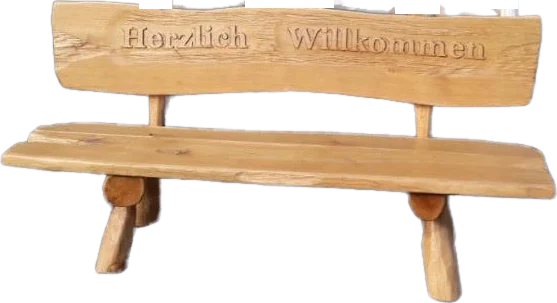
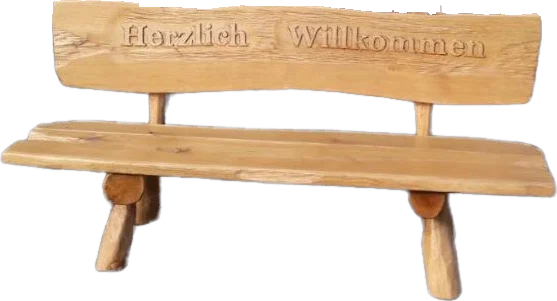
Garten-Traum & Kleber: Planer-Filterfehler behoben, Werkzeugleiste, Bank sauber freigestellt, Kontaktbereich ergänzt, Sockenspiel-Treffer verbessert
Claude-Session: https://claude.ai/code/session_01EMm62h9HVzjdUNKeAUenKu

diff --git a/entwurf/garten-traum/index.html b/entwurf/garten-traum/index.html
@@ -10,7 +10,7 @@
 <link rel="icon" href="img/favicon.png" type="image/png">
 <link rel="preload" href="fonts/gloock-latin-400-normal.woff2" as="font" type="font/woff2" crossorigin>
 <link rel="preload" href="fonts/familjen-grotesk-latin-400-normal.woff2" as="font" type="font/woff2" crossorigin>
-<link rel="stylesheet" href="assets/gt.css?v=1792109696">
+<link rel="stylesheet" href="assets/gt.css?v=1792111354">
 <script type="application/ld+json">{"@context": "https://schema.org", "@type": "FurnitureStore", "name": "Der Garten-Traum", "slogan": "Natürlich. Mit Herz.", "telephone": "+4917647161931", "email": "info@der-garten-traum.de", "foundingDate": "2011", "founder": {"@type": "Person", "name": "Janusz Wojtasczyk"}, "address": {"@type": "PostalAddress", "streetAddress": "Ortsstraße 69", "postalCode": "66459", "addressLocality": "Kirkel", "addressCountry": "DE"}, "openingHoursSpecification": [{"@type": "OpeningHoursSpecification", "dayOfWeek": ["Monday", "Tuesday", "Wednesday", "Thursday", "Friday", "Saturday"], "opens": "08:30", "closes": "18:30"}], "aggregateRating": {"@type": "AggregateRating", "ratingValue": "4.9", "reviewCount": "22"}}</script>
 </head>
 <body class="home is-loading">
@@ -175,8 +175,8 @@
           <button type="button" data-act="back" title="Nach hinten">⤓</button>
           <button type="button" data-act="front" title="Nach vorne">⤒</button>
           <button type="button" data-act="dup" title="Kopie">⧉</button>
-          <label title="Helligkeit">◐<input type="range" min="-40" max="40" value="0" data-bri></label>
-          <button type="button" data-act="del" title="Entfernen" class="del">✕</button>
+          <label title="Helligkeit">☀<input type="range" min="-40" max="40" value="0" data-bri></label>
+          <button type="button" data-act="del" title="Entfernen" class="rm">✕</button>
         </div>
         <p class="pl-hint" data-plhint><span data-pl="Dotknij mebla poniżej albo przeciągnij go na zdjęcie">Möbel unten antippen oder ins Bild ziehen</span></p>
       </div>
@@ -305,6 +305,8 @@
       <p class="kick"><span data-pl="Zapytanie">Anfrage</span></p>
       <h2 class="h2" id="k-h"><span data-pl="Czego potrzebuje">Was braucht</span> <em><span data-pl="Twój ogród?">Ihr Garten?</span></em></h2>
       <p class="lead" data-plh="Odezwiemy się z ceną i terminem dostawy. Albo po prostu zadzwoń: &lt;a href=&quot;tel:+4917647161931&quot;&gt;0176 47161931&lt;/a&gt; – mówimy też po polsku.">Wir melden uns mit Preis und Liefertermin. Oder rufen Sie einfach an: <a href="tel:+4917647161931">0176 47161931</a>.</p>
+      <div class="ko-quick"><a class="b b-ember sm" href="https://wa.me/4917647161931" target="_blank" rel="noopener">WhatsApp</a><a class="b b-ghost light sm" href="tel:+4917647161931"><span data-pl="Zadzwoń">Anrufen</span></a></div>
+      <figure class="ko-pol"><img src="img/f/ausstellung_oben.webp" alt="Die Ausstellung des Garten-Traums von oben" loading="lazy"><figcaption><span data-pl="Ortsstraße 69 – po prostu wpadnij">Ortsstraße 69 – einfach vorbeikommen</span></figcaption></figure>
       <figure class="ko-prev" data-koprev hidden><img alt="Ihr Garten-Entwurf" data-koimg><figcaption><span data-pl="Twój projekt ogrodu zostanie dołączony.">Ihr Garten-Entwurf wird mitgeschickt.</span> <button type="button" class="lk" data-kodrop><span data-pl="Usuń">Entfernen</span></button></figcaption></figure>
     </div>
     <form class="kf" data-kf action="https://formsubmit.co/info@falcon-eye.de" method="POST" enctype="multipart/form-data">
@@ -350,6 +352,6 @@
 <div class="dock" data-dock><a href="tel:+4917647161931"><span data-pl="Zadzwoń">Anrufen</span></a><a href="#planer" class="on"><span data-pl="Planer">Planer</span></a><a href="https://wa.me/4917647161931" target="_blank" rel="noopener">WhatsApp</a></div>
 <div class="lb" data-lb hidden><button type="button" class="lb-x" data-lbx aria-label="Schließen">✕</button><button type="button" class="lb-n p" data-lbn="-1" aria-label="Zurück">←</button><figure><img alt="" data-lbimg><figcaption data-lbcap></figcaption></figure><button type="button" class="lb-n n" data-lbn="1" aria-label="Weiter">→</button></div>
 <div class="toast" data-toast role="status" aria-live="polite"></div>
-<script>window.GT={"prod": {"set4": {"n": "Tisch mit Ablage", "pl": "Stół z półką", "cat": "holz", "w": 220, "sz": [720, 414]}, "set3": {"n": "Garnitur mit Sesseln", "pl": "Komplet z fotelami", "cat": "holz", "w": 250, "sz": [1051, 494]}, "set1": {"n": "Tisch & zwei Lehnbänke", "pl": "Stół i dwie ławki", "cat": "holz", "w": 230, "sz": [956, 568]}, "set2": {"n": "Rustikal, wie gewachsen", "pl": "Rustykalny, jak wyrósł", "cat": "holz", "w": 250, "sz": [1048, 582]}, "rund": {"n": "Runde Tafel für sechs", "pl": "Okrągły stół dla sześciu", "cat": "holz", "w": 200, "sz": [847, 648]}, "natur": {"n": "Baumstamm-Tafel", "pl": "Stół na pniach", "cat": "holz", "w": 230, "sz": [921, 644]}, "rosen": {"n": "Mit geschnitzten Rosen", "pl": "Z rzeźbionymi różami", "cat": "holz", "w": 240, "sz": [995, 577]}, "gesch1": {"n": "Dunkel geschnitzt", "pl": "Ciemny, rzeźbiony", "cat": "holz", "w": 240, "sz": [893, 543]}, "gesch3": {"n": "Geschnitzt, lange Tafel", "pl": "Rzeźbiony, długi stół", "cat": "holz", "w": 260, "sz": [1024, 599]}, "schaukel1": {"n": "Rundholz-Schaukel", "pl": "Huśtawka z okrąglaków", "cat": "schaukel", "w": 260, "sz": [881, 768]}, "schaukel2": {"n": "Schaukel mit Armlehnen", "pl": "Huśtawka z podłokietnikami", "cat": "schaukel", "w": 250, "sz": [838, 768]}, "dach": {"n": "Schaukel mit Schindeldach", "pl": "Huśtawka z daszkiem", "cat": "schaukel", "w": 240, "sz": [859, 735]}, "bank": {"n": "Bank „Herzlich Willkommen“", "pl": "Ławka „Serdecznie witamy”", "cat": "holz", "w": 180, "sz": [557, 303]}, "adler": {"n": "Adler", "pl": "Orzeł", "cat": "beton", "w": 80, "sz": [780, 749]}, "hund": {"n": "Terrier", "pl": "Terier", "cat": "beton", "w": 55, "sz": [503, 547]}, "milchmann": {"n": "Der Milchmann", "pl": "Mleczarz", "cat": "beton", "w": 45, "sz": [441, 768]}, "pagode": {"n": "Pagoden-Laterne", "pl": "Latarnia pagoda", "cat": "beton", "w": 55, "sz": [537, 851]}, "brunnen": {"n": "Baumstamm-Brunnen", "pl": "Fontanna jak pień", "cat": "beton", "w": 75, "sz": [609, 911]}}, "photos": [["panorama", "Die Ausstellung am Abend", "Ekspozycja wieczorem", 4.994], ["ausstellung_oben", "Von oben: die ganze Ausstellung", "Z góry: cała ekspozycja", 1.336], ["g_ecke_strasse", "Die Ecke an der Ortsstraße", "Narożnik przy Ortsstraße", 1.336], ["ausstellung_schaukeln", "Schaukeln vor dem Laden", "Huśtawki przed sklepem", 1.336], ["ausstellung_terrasse", "Unter dem Vordach", "Pod zadaszeniem", 1.336], ["ausstellung_figuren", "Figuren am Zaun", "Figury przy płocie", 1.336], ["g_figurenhof", "Der Figurenhof", "Podwórze figur", 1.336], ["g_figurenhof2", "Hunderte Figuren aus Beton", "Setki figur z betonu", 1.336], ["schaukel1", "Rundholz-Schaukel, frisch geliefert", "Huśtawka z okrąglaków, świeżo dostarczona", 1.333], ["schaukel2", "Mit Armlehnen", "Z podłokietnikami", 1.333], ["g_schaukel_dunkel", "Dunkle Schaukel mit Dach", "Ciemna huśtawka z daszkiem", 1.336], ["g_sitzgruppe_schaukel", "Sitzgruppe & Schaukel", "Komplet i huśtawka", 1.336], ["schaukel_garten", "Mit Schindeldach im Garten", "Z gontowym daszkiem w ogrodzie", 1.187], ["rund", "Runde Tafel, nach dem Regen", "Okrągły stół po deszczu", 1.333], ["natur", "Unbehandelt, auf Stämmen", "Nielakierowany, na pniach", 1.333], ["rosen", "Mit geschnitzten Rosen", "Z rzeźbionymi różami", 1.333], ["honig", "Honigfarben geölt", "Olejowany na miodowo", 1.333], ["gesch1", "Blätter in Lehne und Platte", "Liście w oparciu i blacie", 1.333], ["gesch2", "Dunkel geschnitzt", "Ciemny, rzeźbiony", 1.333], ["gesch3", "Jede Kante von Hand", "Każda krawędź ręcznie", 1.333], ["braun", "Geölt und gewachst", "Olejowany i woskowany", 1.333], ["moebel_set3", "Garnitur mit Lehnen", "Komplet z oparciami", 1.334], ["moebel_set4", "Für die ganze Familie", "Dla całej rodziny", 1.333], ["moebel_terrasse", "Auf der Terrasse", "Na tarasie", 1.333], ["wa_set4", "Gerade aufgestellt", "Właśnie wystawiony", 1.414], ["wa_set_schaukel", "Neu in der Ausstellung", "Nowość na ekspozycji", 1.414], ["eiche_garten", "Eiche im Garten", "Dąb w ogrodzie", 1.49], ["g_bank_willkommen", "„Herzlich Willkommen“", "„Serdecznie witamy”", 1.336], ["wurzeltisch", "Aus einer ganzen Wurzel", "Z całego korzenia", 0.749], ["spielhaus1", "Spielhaus auf Stelzen", "Domek na palach", 1.331], ["spielhaus2", "Mit Treppe & Fenster", "Ze schodami i okienkiem", 0.747], ["spielhaus3", "Großes Spielhaus mit Schaukel", "Duży domek z huśtawką", 1.328], ["adler", "Der große Adler", "Duży orzeł", 1.333], ["adler3", "Adler auf dem Fels", "Orzeł na skale", 1.333], ["beton_adler2", "Flügel weit offen", "Skrzydła szeroko otwarte", 0.749], ["loewe", "Der Löwe", "Lew", 1.226], ["hund", "Terrier & Vogeltränke", "Terier i poidełko", 1.333], ["milchmann", "Der Milchmann", "Mleczarz", 0.75], ["pagode", "Pagoden-Laterne", "Latarnia pagoda", 0.75], ["pagode_gruen", "Pagode im Grünen", "Pagoda w zieleni", 1.329], ["beton_pagode3", "Laterne mit Adler", "Latarnia z orłem", 0.749], ["brunnen", "Brunnen wie ein Baumstamm", "Fontanna jak pień", 0.75], ["brunnen3", "Drei-Schalen-Brunnen", "Fontanna z trzema misami", 0.744], ["brunnenfrau", "Die Brunnenfrau", "Kobieta przy studni", 1.327], ["gastro_saal", "Eine ganze Gaststube", "Cała sala", 1.332], ["gastro_bar", "Theke & Barhocker", "Bar i hokery", 1.333], ["gastro_kamin", "Vor dem Kamin", "Przy kominku", 1.55], ["gastro_raum1", "Tische für die Wirtschaft", "Stoły do gospody", 1.333], ["gastro_raum2", "Gemütlich eingerichtet", "Przytulnie urządzone", 1.333], ["vogelbach", "Kirchengemeinde Vogelbach", "Parafia Vogelbach", 2.411]], "turn": ["set4", "set3", "rund", "natur", "rosen", "gesch1"], "orte": [["Kirkel", 49.289, 7.234], ["Homburg", 49.326, 7.338], ["Bexbach", 49.346, 7.258], ["St. Ingbert", 49.277, 7.116], ["Blieskastel", 49.237, 7.255], ["Zweibrücken", 49.249, 7.36], ["Neunkirchen", 49.346, 7.18], ["Spiesen-Elversberg", 49.317, 7.124], ["Waldmohr", 49.384, 7.338], ["Ottweiler", 49.401, 7.164], ["Sulzbach", 49.298, 7.066], ["Saarbrücken", 49.234, 6.996], ["Mandelbachtal", 49.18, 7.17], ["Landstuhl", 49.413, 7.571], ["St. Wendel", 49.467, 7.168], ["Kaiserslautern", 49.444, 7.769]], "shop": [49.3244, 7.2873], "wa": "https://wa.me/4917647161931", "mob": "0176 47161931"};</script>
-<script src="assets/gt.js?v=1792109696" defer></script><script src="assets/planer.js?v=1792109696" defer></script>
+<script>window.GT={"prod": {"set4": {"n": "Tisch mit Ablage", "pl": "Stół z półką", "cat": "holz", "w": 220, "sz": [720, 414]}, "set3": {"n": "Garnitur mit Sesseln", "pl": "Komplet z fotelami", "cat": "holz", "w": 250, "sz": [1051, 494]}, "set1": {"n": "Tisch & zwei Lehnbänke", "pl": "Stół i dwie ławki", "cat": "holz", "w": 230, "sz": [956, 568]}, "set2": {"n": "Rustikal, wie gewachsen", "pl": "Rustykalny, jak wyrósł", "cat": "holz", "w": 250, "sz": [1048, 582]}, "rund": {"n": "Runde Tafel für sechs", "pl": "Okrągły stół dla sześciu", "cat": "holz", "w": 200, "sz": [847, 648]}, "natur": {"n": "Baumstamm-Tafel", "pl": "Stół na pniach", "cat": "holz", "w": 230, "sz": [921, 644]}, "rosen": {"n": "Mit geschnitzten Rosen", "pl": "Z rzeźbionymi różami", "cat": "holz", "w": 240, "sz": [995, 577]}, "gesch1": {"n": "Dunkel geschnitzt", "pl": "Ciemny, rzeźbiony", "cat": "holz", "w": 240, "sz": [893, 543]}, "gesch3": {"n": "Geschnitzt, lange Tafel", "pl": "Rzeźbiony, długi stół", "cat": "holz", "w": 260, "sz": [1024, 599]}, "schaukel1": {"n": "Rundholz-Schaukel", "pl": "Huśtawka z okrąglaków", "cat": "schaukel", "w": 260, "sz": [881, 768]}, "schaukel2": {"n": "Schaukel mit Armlehnen", "pl": "Huśtawka z podłokietnikami", "cat": "schaukel", "w": 250, "sz": [838, 768]}, "dach": {"n": "Schaukel mit Schindeldach", "pl": "Huśtawka z daszkiem", "cat": "schaukel", "w": 240, "sz": [859, 735]}, "bank": {"n": "Bank „Herzlich Willkommen“", "pl": "Ławka „Serdecznie witamy”", "cat": "holz", "w": 180, "sz": [557, 301]}, "adler": {"n": "Adler", "pl": "Orzeł", "cat": "beton", "w": 80, "sz": [780, 749]}, "hund": {"n": "Terrier", "pl": "Terier", "cat": "beton", "w": 55, "sz": [503, 547]}, "milchmann": {"n": "Der Milchmann", "pl": "Mleczarz", "cat": "beton", "w": 45, "sz": [441, 768]}, "pagode": {"n": "Pagoden-Laterne", "pl": "Latarnia pagoda", "cat": "beton", "w": 55, "sz": [537, 851]}, "brunnen": {"n": "Baumstamm-Brunnen", "pl": "Fontanna jak pień", "cat": "beton", "w": 75, "sz": [609, 911]}}, "photos": [["panorama", "Die Ausstellung am Abend", "Ekspozycja wieczorem", 4.994], ["ausstellung_oben", "Von oben: die ganze Ausstellung", "Z góry: cała ekspozycja", 1.336], ["g_ecke_strasse", "Die Ecke an der Ortsstraße", "Narożnik przy Ortsstraße", 1.336], ["ausstellung_schaukeln", "Schaukeln vor dem Laden", "Huśtawki przed sklepem", 1.336], ["ausstellung_terrasse", "Unter dem Vordach", "Pod zadaszeniem", 1.336], ["ausstellung_figuren", "Figuren am Zaun", "Figury przy płocie", 1.336], ["g_figurenhof", "Der Figurenhof", "Podwórze figur", 1.336], ["g_figurenhof2", "Hunderte Figuren aus Beton", "Setki figur z betonu", 1.336], ["schaukel1", "Rundholz-Schaukel, frisch geliefert", "Huśtawka z okrąglaków, świeżo dostarczona", 1.333], ["schaukel2", "Mit Armlehnen", "Z podłokietnikami", 1.333], ["g_schaukel_dunkel", "Dunkle Schaukel mit Dach", "Ciemna huśtawka z daszkiem", 1.336], ["g_sitzgruppe_schaukel", "Sitzgruppe & Schaukel", "Komplet i huśtawka", 1.336], ["schaukel_garten", "Mit Schindeldach im Garten", "Z gontowym daszkiem w ogrodzie", 1.187], ["rund", "Runde Tafel, nach dem Regen", "Okrągły stół po deszczu", 1.333], ["natur", "Unbehandelt, auf Stämmen", "Nielakierowany, na pniach", 1.333], ["rosen", "Mit geschnitzten Rosen", "Z rzeźbionymi różami", 1.333], ["honig", "Honigfarben geölt", "Olejowany na miodowo", 1.333], ["gesch1", "Blätter in Lehne und Platte", "Liście w oparciu i blacie", 1.333], ["gesch2", "Dunkel geschnitzt", "Ciemny, rzeźbiony", 1.333], ["gesch3", "Jede Kante von Hand", "Każda krawędź ręcznie", 1.333], ["braun", "Geölt und gewachst", "Olejowany i woskowany", 1.333], ["moebel_set3", "Garnitur mit Lehnen", "Komplet z oparciami", 1.334], ["moebel_set4", "Für die ganze Familie", "Dla całej rodziny", 1.333], ["moebel_terrasse", "Auf der Terrasse", "Na tarasie", 1.333], ["wa_set4", "Gerade aufgestellt", "Właśnie wystawiony", 1.414], ["wa_set_schaukel", "Neu in der Ausstellung", "Nowość na ekspozycji", 1.414], ["eiche_garten", "Eiche im Garten", "Dąb w ogrodzie", 1.49], ["g_bank_willkommen", "„Herzlich Willkommen“", "„Serdecznie witamy”", 1.336], ["wurzeltisch", "Aus einer ganzen Wurzel", "Z całego korzenia", 0.749], ["spielhaus1", "Spielhaus auf Stelzen", "Domek na palach", 1.331], ["spielhaus2", "Mit Treppe & Fenster", "Ze schodami i okienkiem", 0.747], ["spielhaus3", "Großes Spielhaus mit Schaukel", "Duży domek z huśtawką", 1.328], ["adler", "Der große Adler", "Duży orzeł", 1.333], ["adler3", "Adler auf dem Fels", "Orzeł na skale", 1.333], ["beton_adler2", "Flügel weit offen", "Skrzydła szeroko otwarte", 0.749], ["loewe", "Der Löwe", "Lew", 1.226], ["hund", "Terrier & Vogeltränke", "Terier i poidełko", 1.333], ["milchmann", "Der Milchmann", "Mleczarz", 0.75], ["pagode", "Pagoden-Laterne", "Latarnia pagoda", 0.75], ["pagode_gruen", "Pagode im Grünen", "Pagoda w zieleni", 1.329], ["beton_pagode3", "Laterne mit Adler", "Latarnia z orłem", 0.749], ["brunnen", "Brunnen wie ein Baumstamm", "Fontanna jak pień", 0.75], ["brunnen3", "Drei-Schalen-Brunnen", "Fontanna z trzema misami", 0.744], ["brunnenfrau", "Die Brunnenfrau", "Kobieta przy studni", 1.327], ["gastro_saal", "Eine ganze Gaststube", "Cała sala", 1.332], ["gastro_bar", "Theke & Barhocker", "Bar i hokery", 1.333], ["gastro_kamin", "Vor dem Kamin", "Przy kominku", 1.55], ["gastro_raum1", "Tische für die Wirtschaft", "Stoły do gospody", 1.333], ["gastro_raum2", "Gemütlich eingerichtet", "Przytulnie urządzone", 1.333], ["vogelbach", "Kirchengemeinde Vogelbach", "Parafia Vogelbach", 2.411]], "turn": ["set4", "set3", "rund", "natur", "rosen", "gesch1"], "orte": [["Kirkel", 49.289, 7.234], ["Homburg", 49.326, 7.338], ["Bexbach", 49.346, 7.258], ["St. Ingbert", 49.277, 7.116], ["Blieskastel", 49.237, 7.255], ["Zweibrücken", 49.249, 7.36], ["Neunkirchen", 49.346, 7.18], ["Spiesen-Elversberg", 49.317, 7.124], ["Waldmohr", 49.384, 7.338], ["Ottweiler", 49.401, 7.164], ["Sulzbach", 49.298, 7.066], ["Saarbrücken", 49.234, 6.996], ["Mandelbachtal", 49.18, 7.17], ["Landstuhl", 49.413, 7.571], ["St. Wendel", 49.467, 7.168], ["Kaiserslautern", 49.444, 7.769]], "shop": [49.3244, 7.2873], "wa": "https://wa.me/4917647161931", "mob": "0176 47161931"};</script>
+<script src="assets/gt.js?v=1792111354" defer></script><script src="assets/planer.js?v=1792111354" defer></script>
 </body></html>

diff --git a/entwurf/waescherei-kleber/index.html b/entwurf/waescherei-kleber/index.html
@@ -9,7 +9,7 @@
 <meta name="theme-color" content="#1546a8">
 <link rel="icon" href="img/favicon.svg" type="image/svg+xml">
 <link rel="preload" href="fonts/archivo-latin-wdth-normal.woff2" as="font" type="font/woff2" crossorigin>
-<link rel="stylesheet" href="assets/kl.css?v=1792110955">
+<link rel="stylesheet" href="assets/kl.css?v=1792111494">
 <script type="application/ld+json">{"@context": "https://schema.org", "@type": "DryCleaningOrLaundry", "name": "Wäscherei Kleber", "foundingDate": "1971", "telephone": "+4968156800", "faxNumber": "+4968156842", "email": "info@waescherei-kleber.de", "address": {"@type": "PostalAddress", "streetAddress": "Gersweilerstraße 20", "postalCode": "66117", "addressLocality": "Saarbrücken", "addressCountry": "DE"}, "geo": {"@type": "GeoCoordinates", "latitude": 49.2324, "longitude": 6.9739}, "openingHoursSpecification": [{"@type": "OpeningHoursSpecification", "dayOfWeek": ["Monday", "Thursday"], "opens": "10:00", "closes": "17:00"}, {"@type": "OpeningHoursSpecification", "dayOfWeek": ["Tuesday", "Friday"], "opens": "09:00", "closes": "17:00"}, {"@type": "OpeningHoursSpecification", "dayOfWeek": ["Wednesday", "Saturday"], "opens": "09:00", "closes": "13:00"}], "aggregateRating": {"@type": "AggregateRating", "ratingValue": "4.2", "reviewCount": "31"}}</script>
 </head>
 <body class="home is-loading">
@@ -289,5 +289,5 @@
 <div class="toast" data-toast role="status" aria-live="polite"></div>
 <script>window.KL={"hours": [["10:00", "17:00"], ["9:00", "17:00"], ["9:00", "13:00"], ["10:00", "17:00"], ["9:00", "17:00"], ["9:00", "13:00"], null]};</script>
 <script src="assets/matter.min.js" defer></script>
-<script src="assets/kl.js?v=1792110955" defer></script>
+<script src="assets/kl.js?v=1792111494" defer></script>
 </body></html>

diff --git a/entwurf/garten-traum/assets/gt.css b/entwurf/garten-traum/assets/gt.css
@@ -273,7 +273,7 @@ input,textarea{font:inherit}
 .pl-tool[hidden]{display:none}
 .pl-tool button,.pl-tool label{width:38px;height:38px;border:0;border-radius:50%;background:none;color:#fff;display:grid;place-items:center;font-size:16px;cursor:pointer;position:relative}
 .pl-tool button:hover,.pl-tool label:hover{background:rgba(255,255,255,.12)}
-.pl-tool .del{color:#ff9b7a}
+.pl-tool .rm{color:#ff9b7a}
 .pl-tool label input{position:absolute;left:50%;top:-44px;transform:translateX(-50%);width:140px;display:none;accent-color:var(--ember)}
 .pl-tool label:hover input,.pl-tool label:focus-within input,.pl-tool label.open input{display:block}
 .pl-hint{position:absolute;left:50%;bottom:16px;transform:translateX(-50%);margin:0;background:rgba(22,16,11,.78);color:#fff;font:500 13px var(--fm);padding:10px 16px;border-radius:999px;white-space:nowrap;pointer-events:none;transition:opacity .4s}
@@ -440,6 +440,11 @@ input,textarea{font:inherit}
 .ko-in{display:grid;grid-template-columns:minmax(0,.85fr) minmax(0,1.15fr);gap:clamp(20px,4vw,60px)}
 .ko-t .kick,.ko-t .lead{color:#d8c6ad}
 .ko-t .lead a{color:var(--honey)}
+.ko-quick{display:flex;flex-wrap:wrap;gap:10px;margin-top:20px}
+.ko-pol{margin:28px 0 0;max-width:380px;background:#f7f1e6;padding:9px 9px 34px;transform:rotate(-2.5deg);box-shadow:0 24px 40px -18px #000;position:relative}
+.ko-pol img{aspect-ratio:4/3;object-fit:cover;width:100%}
+.ko-pol figcaption{position:absolute;left:12px;bottom:9px;font:500 12px var(--fm);color:#5a4636}
+.ko-prev:not([hidden])~.ko-pol{display:none}
 .ko-prev{margin:22px 0 0;background:#2a1d13;border-radius:14px;padding:10px;max-width:440px}
 .ko-prev[hidden]{display:none}
 .ko-prev img{border-radius:8px;width:100%}

diff --git a/entwurf/waescherei-kleber/assets/kl.js b/entwurf/waescherei-kleber/assets/kl.js
@@ -214,7 +214,7 @@
     let grab = null;
     const pt = e => { const r = cv.getBoundingClientRect(); return { x: (e.clientX - r.left) * W / r.width, y: (e.clientY - r.top) * W / r.height }; };
     cv.addEventListener('pointerdown', e => {
-      const p = pt(e), hit = Query.point(items, p)[0]; if (!hit) return;
+      const p = pt(e), hits = Query.point(items, p); let hit = hits[hits.length - 1]; if (!hit && opts.onPick) { let best = null, bd = 1e9; for (const b of items) { const d = Math.hypot(b.position.x - p.x, b.position.y - p.y); if (d < bd) { bd = d; best = b; } } if (bd < R * .14) hit = best; } if (!hit) return;
       if (opts.onPick) { opts.onPick(hit); return; }
       if (e.pointerType !== 'mouse') { Body.setVelocity(hit, { x: (Math.random() - .5) * 10, y: -10 }); return; }
       grab = Constraint.create({ pointA: p, bodyB: hit, pointB: { x: p.x - hit.position.x, y: p.y - hit.position.y }, stiffness: .2, damping: .1, length: 0 });
@@ -291,7 +291,7 @@
     const best = +store.get('kl-socks') || 0; if (best) bEl.textContent = fmt(best);
     let D;
     D = makeDrum(cv, { omega: .006, water: 0, baffles: 3, onPick: b => pick(b) });
-    if (!D) return;
+    if (!D) return; window.__klSocks = D;
     function fill() {
       D.items.slice().forEach(b => D.removeItem(b)); line.innerHTML = ''; sel.clear(); pairs = 0; pEl.textContent = '0 / 8';
       const list = []; SOCKS.forEach((s, i) => { list.push(i, i); }); list.sort(() => Math.random() - .5);

diff --git a/entwurf/garten-traum/datenschutz.html b/entwurf/garten-traum/datenschutz.html
@@ -10,7 +10,7 @@
 <link rel="icon" href="img/favicon.png" type="image/png">
 <link rel="preload" href="fonts/gloock-latin-400-normal.woff2" as="font" type="font/woff2" crossorigin>
 <link rel="preload" href="fonts/familjen-grotesk-latin-400-normal.woff2" as="font" type="font/woff2" crossorigin>
-<link rel="stylesheet" href="assets/gt.css?v=1792109696">
+<link rel="stylesheet" href="assets/gt.css?v=1792111354">
 
 </head>
 <body class="sub">
@@ -61,4 +61,4 @@
   <div class="wrap ftr-b"><span>© Der Garten-Traum · <span data-pl="Właściciel">Inhaber</span> Janusz Wojtasczyk</span><span><a href="impressum.html">Impressum</a> · <a href="datenschutz.html"><span data-pl="Ochrona danych">Datenschutz</span></a></span></div>
 </footer>
 <a class="concept" href="https://falcon-eye.de" target="_blank" rel="noopener">Entwurf von <b>Falcon Eye</b> · nicht die offizielle Seite</a>
-<script src="assets/gt.js?v=1792109696" defer></script></body></html>
+<script src="assets/gt.js?v=1792111354" defer></script></body></html>

diff --git a/entwurf/garten-traum/impressum.html b/entwurf/garten-traum/impressum.html
@@ -10,7 +10,7 @@
 <link rel="icon" href="img/favicon.png" type="image/png">
 <link rel="preload" href="fonts/gloock-latin-400-normal.woff2" as="font" type="font/woff2" crossorigin>
 <link rel="preload" href="fonts/familjen-grotesk-latin-400-normal.woff2" as="font" type="font/woff2" crossorigin>
-<link rel="stylesheet" href="assets/gt.css?v=1792109696">
+<link rel="stylesheet" href="assets/gt.css?v=1792111354">
 
 </head>
 <body class="sub">
@@ -60,4 +60,4 @@
   <div class="wrap ftr-b"><span>© Der Garten-Traum · <span data-pl="Właściciel">Inhaber</span> Janusz Wojtasczyk</span><span><a href="impressum.html">Impressum</a> · <a href="datenschutz.html"><span data-pl="Ochrona danych">Datenschutz</span></a></span></div>
 </footer>
 <a class="concept" href="https://falcon-eye.de" target="_blank" rel="noopener">Entwurf von <b>Falcon Eye</b> · nicht die offizielle Seite</a>
-<script src="assets/gt.js?v=1792109696" defer></script></body></html>
+<script src="assets/gt.js?v=1792111354" defer></script></body></html>

diff --git a/entwurf/garten-traum/assets/planer.js b/entwurf/garten-traum/assets/planer.js
@@ -283,7 +283,7 @@
   hzEl.addEventListener('pointerup', () => { hzDrag = null; hzEl.classList.remove('on'); persist(); });
 
   /* ---------- Ablage: antippen oder ins Bild ziehen ---------- */
-  $$('[data-cat]').forEach(b => b.addEventListener('click', () => { $$('[data-cat]').forEach(x => x.classList.toggle('on', x === b)); const c = b.dataset.cat; $$('[data-add]').forEach(t => t.hidden = !(c === 'all' || t.dataset.cat === c)); }));
+  $$('.pl-cats [data-cat]').forEach(b => b.addEventListener('click', () => { $$('.pl-cats [data-cat]').forEach(x => x.classList.toggle('on', x === b)); const c = b.dataset.cat; $$('[data-add]').forEach(t => t.hidden = !(c === 'all' || t.dataset.cat === c)); }));
   $$('[data-add]').forEach(t => {
     let st = null, ghost = null;
     t.addEventListener('pointerdown', e => { st = { x: e.clientX, y: e.clientY, id: e.pointerId, drag: false }; });

diff --git a/entwurf/waescherei-kleber/datenschutz.html b/entwurf/waescherei-kleber/datenschutz.html
@@ -9,7 +9,7 @@
 <meta name="theme-color" content="#1546a8">
 <link rel="icon" href="img/favicon.svg" type="image/svg+xml">
 <link rel="preload" href="fonts/archivo-latin-wdth-normal.woff2" as="font" type="font/woff2" crossorigin>
-<link rel="stylesheet" href="assets/kl.css?v=1792110955">
+<link rel="stylesheet" href="assets/kl.css?v=1792111494">
 
 </head>
 <body class="sub">
@@ -30,4 +30,4 @@
   <div class="wrap ftr-b"><span>© Wäscherei Kleber · Inhaber Peter Kleber</span><span><a href="impressum.html">Impressum</a> · <a href="datenschutz.html">Datenschutz</a></span></div>
 </footer>
 <a class="concept" href="https://falcon-eye.de" target="_blank" rel="noopener">Entwurf von <b>Falcon Eye</b> · nicht die offizielle Seite</a>
-<script src="assets/kl.js?v=1792110955" defer></script></body></html>
+<script src="assets/kl.js?v=1792111494" defer></script></body></html>

diff --git a/entwurf/waescherei-kleber/impressum.html b/entwurf/waescherei-kleber/impressum.html
@@ -9,7 +9,7 @@
 <meta name="theme-color" content="#1546a8">
 <link rel="icon" href="img/favicon.svg" type="image/svg+xml">
 <link rel="preload" href="fonts/archivo-latin-wdth-normal.woff2" as="font" type="font/woff2" crossorigin>
-<link rel="stylesheet" href="assets/kl.css?v=1792110955">
+<link rel="stylesheet" href="assets/kl.css?v=1792111494">
 
 </head>
 <body class="sub">
@@ -31,4 +31,4 @@
   <div class="wrap ftr-b"><span>© Wäscherei Kleber · Inhaber Peter Kleber</span><span><a href="impressum.html">Impressum</a> · <a href="datenschutz.html">Datenschutz</a></span></div>
 </footer>
 <a class="concept" href="https://falcon-eye.de" target="_blank" rel="noopener">Entwurf von <b>Falcon Eye</b> · nicht die offizielle Seite</a>
-<script src="assets/kl.js?v=1792110955" defer></script></body></html>
+<script src="assets/kl.js?v=1792111494" defer></script></body></html>

diff --git a/entwurf/waescherei-kleber/assets/kl.css b/entwurf/waescherei-kleber/assets/kl.css
@@ -216,7 +216,7 @@ input,textarea{font:inherit}
 .sg-done{position:absolute;inset:18%;border-radius:50%;display:flex;flex-direction:column;align-items:center;justify-content:center;text-align:center;background:rgba(11,29,71,.86);backdrop-filter:blur(4px);animation:pop .6s cubic-bezier(.2,1.6,.3,1)}
 .sg-done[hidden]{display:none}
 @keyframes pop{from{transform:scale(.5);opacity:0}}
-.sg-big{margin:0;font:900 clamp(30px,3.6vw,46px)/1 var(--fd);font-stretch:75%;color:var(--yellow)}
+.sg-done .sg-big{margin:0;font:900 clamp(30px,3.6vw,46px)/1 var(--fd);font-stretch:75%;color:var(--yellow)}
 .sg-done p{margin:6px 12px 12px;font-size:15px}
 .line{position:relative;height:110px;margin-top:20px}
 .line-rope{position:absolute;left:-10%;right:-10%;top:18px;height:2px;background:#d8dee9;border-radius:2px;transform:rotate(-1deg)}
